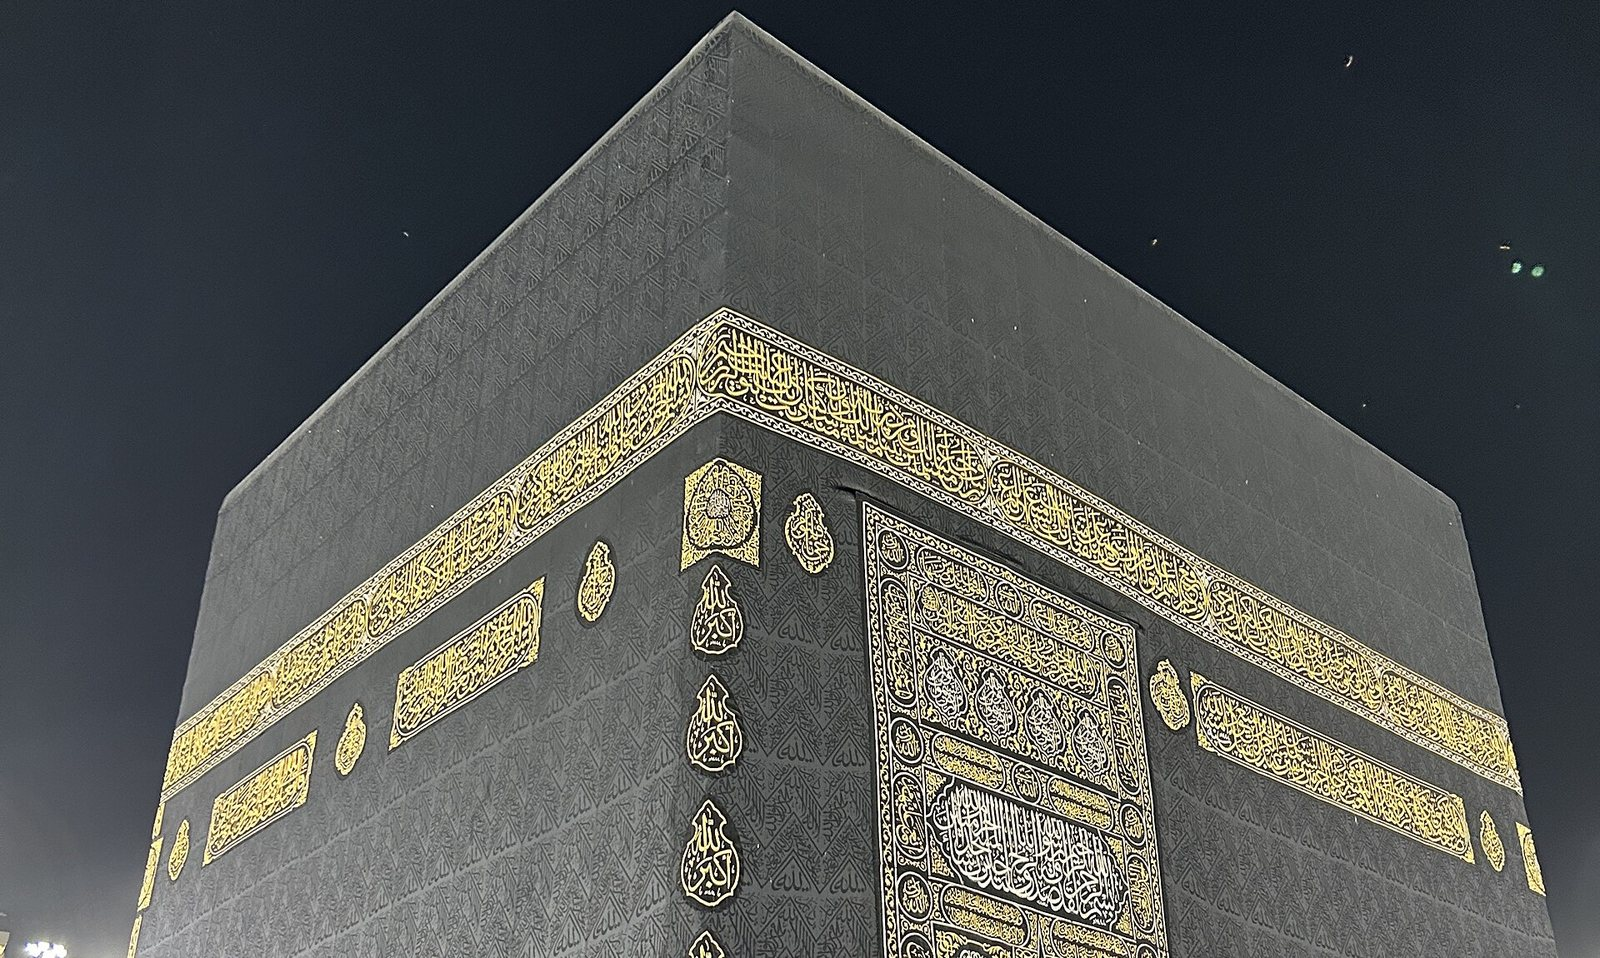
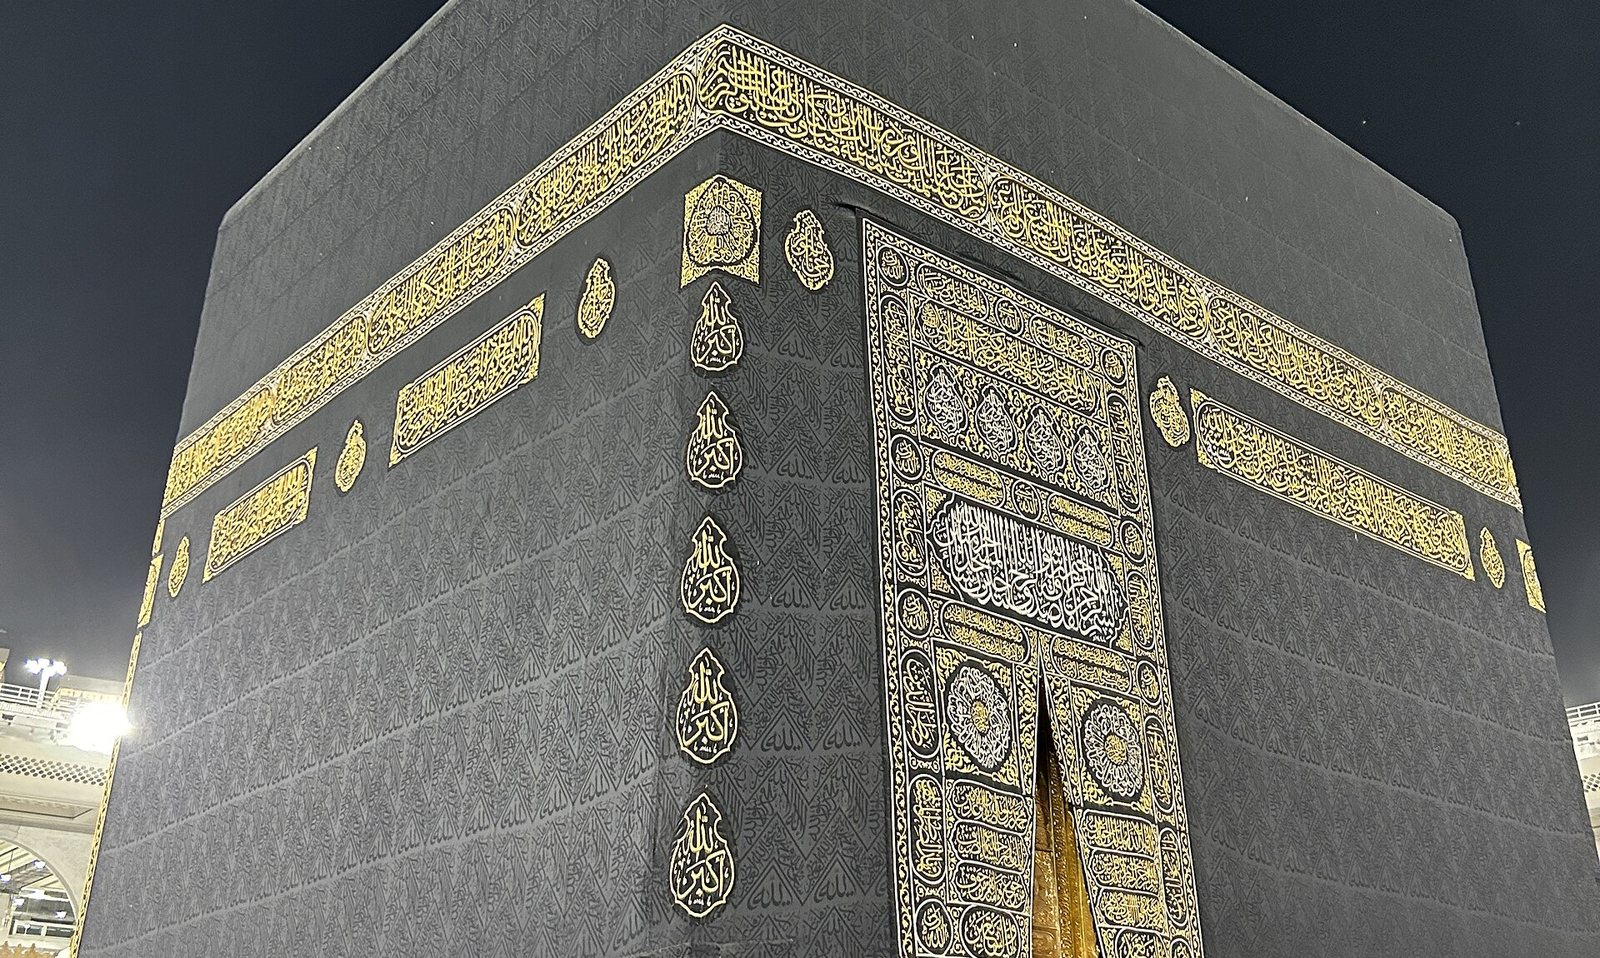
fix(pelerinage): couvertures recadrées sur la Kaaba et ‘Arafat, dégradé allégé

diff --git a/src/app/pilgrimage.tsx b/src/app/pilgrimage.tsx
@@ -127,7 +127,7 @@ export default function PilgrimageHome() {
               >
                 <View style={styles.coverImage}>
                   <Image source={rite === "umrah" ? UMRAH_COVER : HAJJ_COVER} resizeMode="cover" style={StyleSheet.absoluteFill} />
-                  <LinearGradient colors={["rgba(12,10,18,0.05)", "rgba(12,10,18,0.55)", "rgba(12,10,18,0.97)"]} locations={[0, 0.45, 1]} style={StyleSheet.absoluteFill} />
+                  <LinearGradient colors={["rgba(12,10,18,0)", "rgba(12,10,18,0.1)", "rgba(12,10,18,0.93)"]} locations={[0, 0.48, 1]} style={StyleSheet.absoluteFill} />
                   <View style={styles.coverSpine} />
                   <View style={styles.coverContent}>
                     <Text style={styles.coverArabic}>{book.arabic}</Text>
@@ -208,12 +208,12 @@ const styles = StyleSheet.create({
   back: { position: "absolute", left: 16, width: 44, height: 44, alignItems: "center", justifyContent: "center", borderRadius: 22, backgroundColor: "rgba(33,27,44,0.9)" },
   body: { paddingHorizontal: 18 },
   section: { marginTop: 26, marginBottom: 12, color: pil.text, fontSize: 28, ...pilType.display },
-  cover: { height: 236, marginBottom: 14, overflow: "hidden", borderRadius: 26, borderWidth: 1, borderColor: pil.goldLine },
+  cover: { height: 250, marginBottom: 14, overflow: "hidden", borderRadius: 26, borderWidth: 1, borderColor: pil.goldLine },
   coverImage: { flex: 1 },
   coverSpine: { position: "absolute", left: 0, top: 0, bottom: 0, width: 7, backgroundColor: pil.gold, opacity: 0.85 },
   coverContent: { flex: 1, justifyContent: "flex-end", padding: 18, paddingLeft: 24 },
-  coverArabic: { color: pil.gold, fontSize: 26, ...pilType.arabic },
-  coverTitle: { color: pil.text, fontSize: 38, lineHeight: 42, ...pilType.display },
+  coverArabic: { color: pil.gold, fontSize: 26, textShadowColor: "rgba(0,0,0,0.6)", textShadowRadius: 8, ...pilType.arabic },
+  coverTitle: { color: pil.text, fontSize: 38, lineHeight: 42, textShadowColor: "rgba(0,0,0,0.6)", textShadowRadius: 8, ...pilType.display },
   coverMeta: { marginTop: 2, color: pil.text, fontSize: 14.5, fontWeight: "600", ...pilType.sans },
   coverFooter: { marginTop: 12, flexDirection: "row", alignItems: "center", gap: 12 },
   coverBar: { flex: 1, height: 5, overflow: "hidden", borderRadius: 3, backgroundColor: "rgba(255,255,255,0.22)" },
